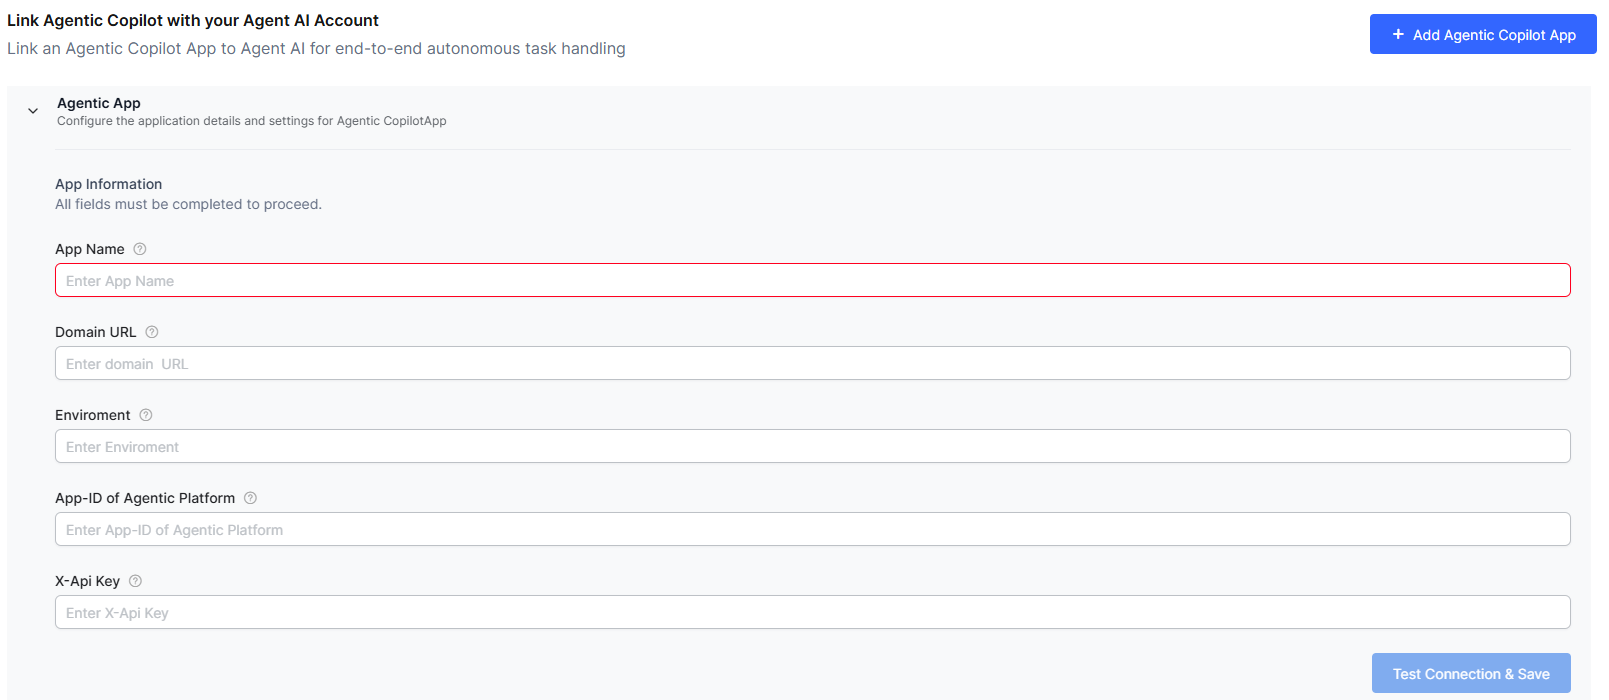
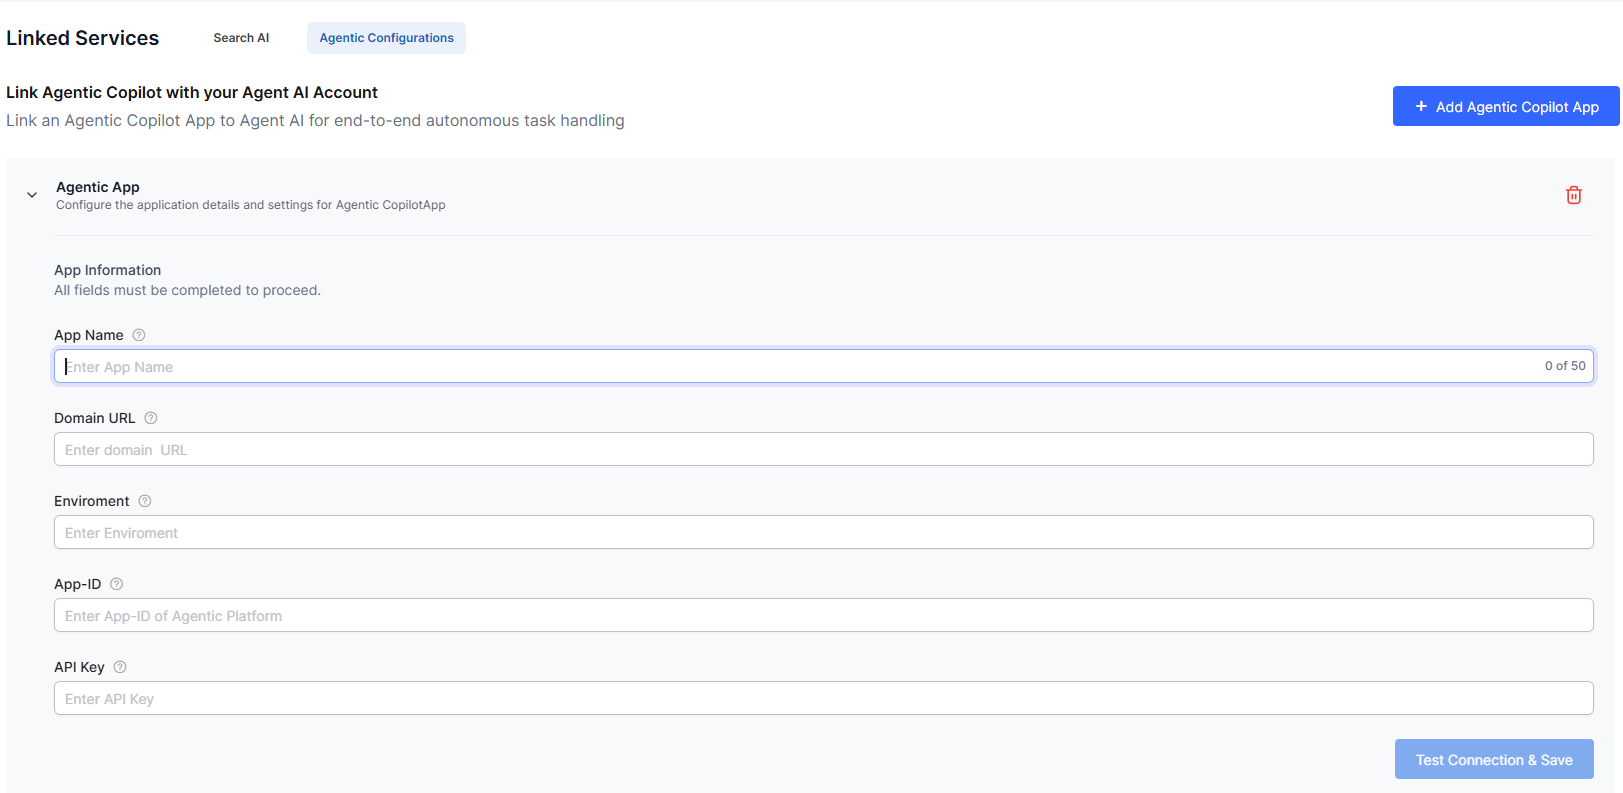
RN_11.15.0 updates

diff --git a/docs/xo/agentai/configuration/widget-settings.md b/docs/xo/agentai/configuration/widget-settings.md
@@ -28,7 +28,9 @@ This section lets you set your preferences based on the channels. It has three c
 
 * **Auto-Scroll Widget Content**: This widget lets you manage the auto-scroll functionality for the content in the Assist, My Bot, and Transcript tabs. When enabled, the system automatically navigates to the bottom of the respective tab to display the newest content. Admins can enable/disable it through the **Widget Settings** > **Agent AI Settings** > **Agent AI Channel Specific Settings** page, while the Agents can access it in the **Agent AI** widget > **Settings** tab. Between these two users, the Agents can override the Admin’s selection. 
 
-* **Control Transcript Visibility between Agents** (for **Voice** channel): This feature restricts the transcript visibility to the time an agent joins a call. When enabled, transcripts from earlier parts of the conversation are not visible to the transferred agents.
+* **Control Transcript Visibility between Agents** (for Voice channel): This feature, available only for the Voice channel, restricts transcript visibility to the current agent. Visibility can be managed using public APIs or agent entry/exit events, except in warm transfers/conference calls where all participants can view shared transcripts. The following options are available: 
+    * **Use public APIs to control transcription**: Control transcript visibility through the [Control Transcription API](./../../apis/agent-ai/control-transcription-api.md). 
+    * **Use agent’s entry and exit events**: Control transcript visibility based on agent’s entry and exit events–transcripts become visible when an agent joins, and prior conversations are hidden once the previous agent exits. 
 
 * **Send Button**: This widget lets you control the accessibility of the Send button functionality for Agent AI responses. By default, this widget is enabled for Voice and Chat channels only.
 
@@ -70,14 +72,19 @@ This section lets you set your preferences based on the channels. It has three c
     1. Select a language from the language list.
     2. Click the toggle to Enable/Disable the Agentic Copilot feature.
     3. Select an app from the **Select Agentic App** list.
-    4. Click to select the **Allow auto send Message** field.
-    5. Set the timer for the **Set message delay before auto send** field by using the slider. You can set a delay up to a maximum of 10 seconds. 
+    4. Click to select the **Allow auto send Message** option. Clearing this option cancels all unsent or new Agentic messages.  
+    5. Set the timer for the **Set message delay before auto send** field by using the slider. You can set a delay up to a maximum of 60 seconds. 
     <img src="../widget-settings-images/agentic-copilot-setting.png" alt="agentic-copilot-setting" title="agentic-copilot-setting" style="border: 1px solid gray; zoom:80%;"> 
 
-9. Select an option under the **Conversation Transfer** section.
-10. Enable or disable the **Auto Summarization** toggle.
-11. Select a language for the **Auto Summarization** field. The selected app's language appears by default.
-12. Select or clear the **Submit** button under the **Auto Summarization** section.
+9. Turn the **toggle** on or off for **Control Transcript Visibility between Agents** (for Voice channel only), and select one of the following options: 
+    * Use public APIs to control transcription 
+    * Use agent’s entry and exit events 
+    <img src="../widget-settings-images/control-transcript-visibility.png" alt="control-transcript-visibility" title="control-transcript-visibility" style="border: 1px solid gray; zoom:80%;"> 
+
+10. Select an option under the **Conversation Transfer** section.
+11. Enable or disable the **Auto Summarization** toggle.
+12. Select a language for the **Auto Summarization** field. The selected app's language appears by default.
+13. Select or clear the **Submit** button under the **Auto Summarization** section.
 
     Under the **Auto Summarization Model** section, select:
 
@@ -92,7 +99,7 @@ This section lets you set your preferences based on the channels. It has three c
         !!! note
             The summary customization through "Custom Dialog Task" feature works only for third-party agent desktops.
 
-13. Click **Save** to save your settings.
+14. Click **Save** to save your settings.
    <img src="../widget-settings-images/agentassist-channel-specific-settings-page-1.png" alt="agentassist-channel-specific-settings-page" title="agentassist-channel-specific-settings-page" style="border: 1px solid gray; zoom:80%;">
 
 ## Agent AI General Settings

diff --git a/docs/xo/agentai/agent-experience/agent-assist-widget-v3.md b/docs/xo/agentai/agent-experience/agent-assist-widget-v3.md
@@ -80,7 +80,7 @@ The Assist tab is the primary interface for the agents. AgentAssist actively mon
 The Assist tab facilitates the following:
 
 * Guide agents through conversations by providing the best response suggestions.
-* Display Agentic Copilot messages.
+* Display Agentic Copilot messages. After the configured **Welcome Events** are executed, the message *"Agentic Copilot is actively listening to your conversation and ready to assist automatically."* is displayed. 
 * Automatic retrieval of information from knowledge base (KB) based on user intent.
 * Provide structured training and coaching to agents.
 * Run bot for customers based on customer-provided information.
@@ -108,6 +108,11 @@ The Assist tab features the following:
        * Click “Override” to discard the Agentic prompt and enter your own response manually.
        * To stop/resume the “auto send” function, click the “stop/resume” icon in the top-right corner of the Agent AI widget, next to the “pause/resume” icon.
        * To pause or resume the Agentic app function, click the “pause/resume” icon in the top-right corner of the Agent AI widget. 
+   * When the **Allow Auto Send Message** feature is enabled, the timer for each Agentic response starts only after the previous message is sent.  
+   * If the view doesn’t auto-scroll to the latest message, an **arrow** appears at the bottom-right, showing the number of stacked Agentic messages. Click the **arrow** to scroll to the latest messages.  
+   * To regenerate a failed Agentic response, double-click the corresponding customer message.
+   * If Agentic Copilot fails to send a response, the auto-send feature is disabled automatically.  
+   * For messages outside the app’s defined scope, Agentic indicates it is not trained to respond. 
 
 * **Playbook adherence button**: If a Playbook is running, adherence to a step happens automatically when the agent’s utterance matches exactly with the Playbook step adherence utterance. If it doesn’t match, the agent can click this button to indicate a step has been completed (adhered).
 * **Send/Copy buttons**: These two buttons appear for Playbooks (if enabled) and Dialog Tasks. Click **Send** to send the exact message appearing on the widget, or click **Copy** to customize the message before sending it to the customer.

diff --git a/docs/xo/agentai/configuration/linked-services.md b/docs/xo/agentai/configuration/linked-services.md
@@ -93,11 +93,11 @@ Follow these steps to configure an Agentic Copilot app:
 <img src="../answers-configuration-images/agentic-copilot.png" alt="agentic-copilot" title="agentic-copilot" style="border: 1px solid gray; zoom:80%;"> 
 
 4. Enter the following information under the **App Information** section:
-    * **App Name**: Enter a name for the new app. For example, Travel Agent.
+    * **App Name**: Enter a name for the new app. For example, Travel Agent. The character limit is set to 50.
     * **Domain URL**: Enter the Agentic platform’s host URL. For example, [agent-platform.kore.ai](http://agent-platform.kore.ai).
     * **Environment**: Enter the environment name as configured in the “Environment” section of the Agentic Platform.
-    * **App ID of Agentic Platform**: Enter the Agentic app ID in use.
-    * **X-API Key**: Enter the API key as configured in the “API Keys” section of the Agentic Platform.
+    * **App ID**: Enter the Agentic app ID in use.
+    * **API Key**: Enter the API key as configured in the “API Keys” section of the Agentic Platform.
 5. Click **Test Connection & Save**. The configured app is saved and gets connected.  
 <img src="../answers-configuration-images/connect-agentic-app.png" alt="connect-agentic-app" title="connect-agentic-app" style="border: 1px solid gray; zoom:80%;"> 
 
@@ -108,3 +108,7 @@ In this section, you can delete a configured app. When deleted, the connected ap
 1. Click the “delete” button against a saved app.
 2. Click Delete on the confirmation screen.  
 <img src="../answers-configuration-images/delete-agentic-app.png" alt="delete-agentic-app" title="delete-agentic-app" style="border: 1px solid gray; zoom:80%;"> 
+
+    !!! note
+        You can't delete an in-use Agentic app—the delete button is disabled and a badge indicates the app is in use: 
+    <img src="../answers-configuration-images/linked-services.png" alt="linked-services" title="linked-services" style="border: 1px solid gray; zoom:80%;"> 

diff --git a/docs/xo/agentai/configuration/conversation-events.md b/docs/xo/agentai/configuration/conversation-events.md
@@ -89,7 +89,10 @@ In this section, you can select what to run first between the dialog tasks and g
 2. Click to expand the **Priority Settings** section.
 3. Select the radio button **On-Connect Dialog Task** or **Greeting Messages**  
    <img src="../welcome-events-images/priority-settings-6.png" alt="priority-settings" title="priority-settings" style="border: 1px solid gray; zoom:80%;">  
-4. Click **Save**.
+4. Click **Save**. 
+
+    !!! note
+        If **Agentic Copilot** is enabled in **Widget Settings** > **Agent AI Channel Specific Settings**, the message *"Whenever Agentic Copilot is enabled, it will run after the configured Welcome Events"* appears in the **Priority Settings** section:  
 
 ## Exit Events
 Exit Events mark the end of a customer interaction. This section lets you configure a dialog task or a conversation summary to automatically run when the end-of-conversation event triggers.
